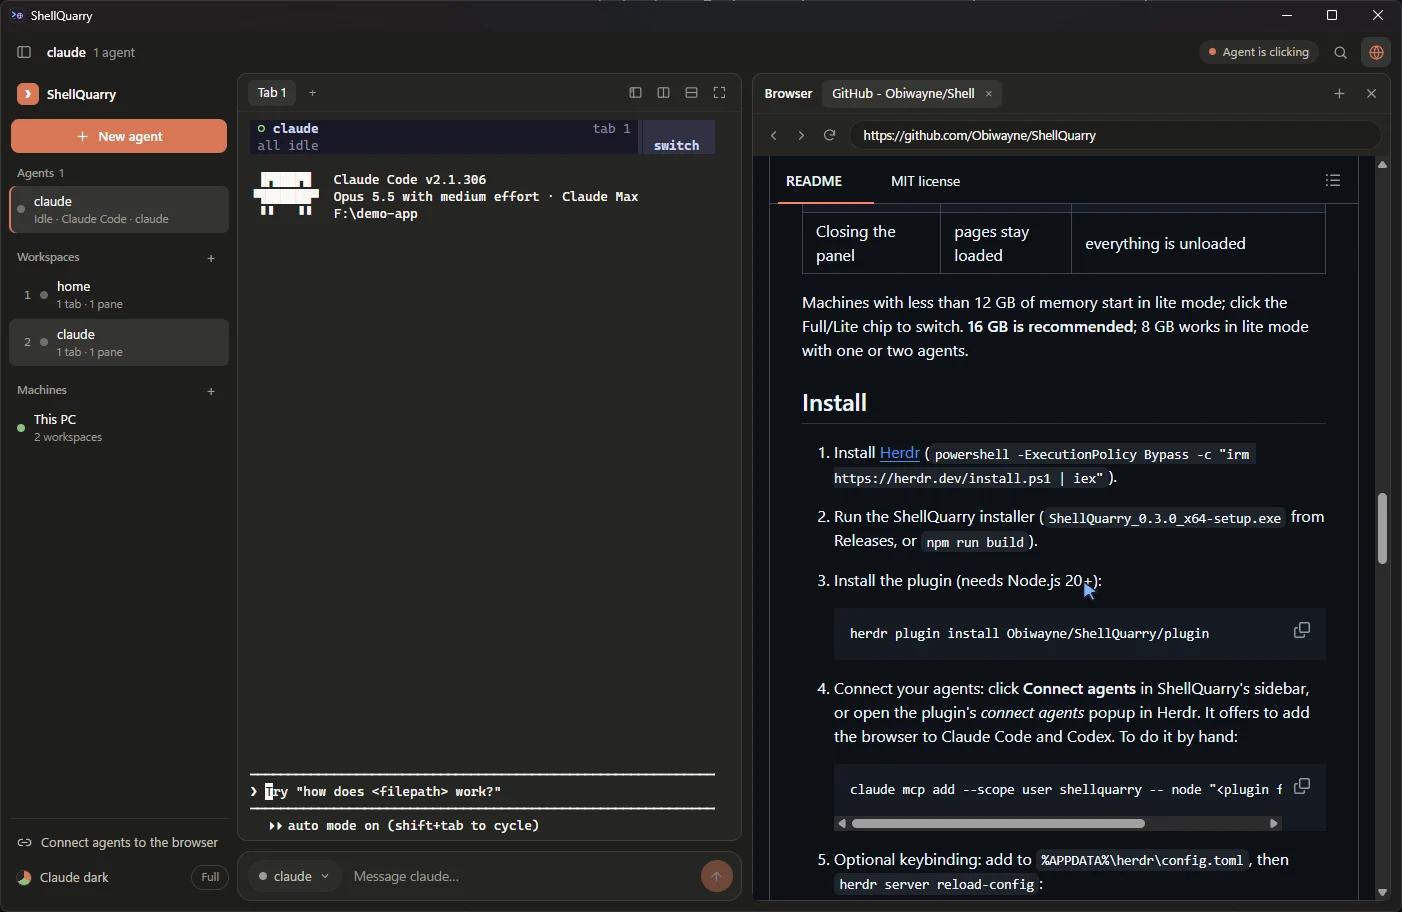
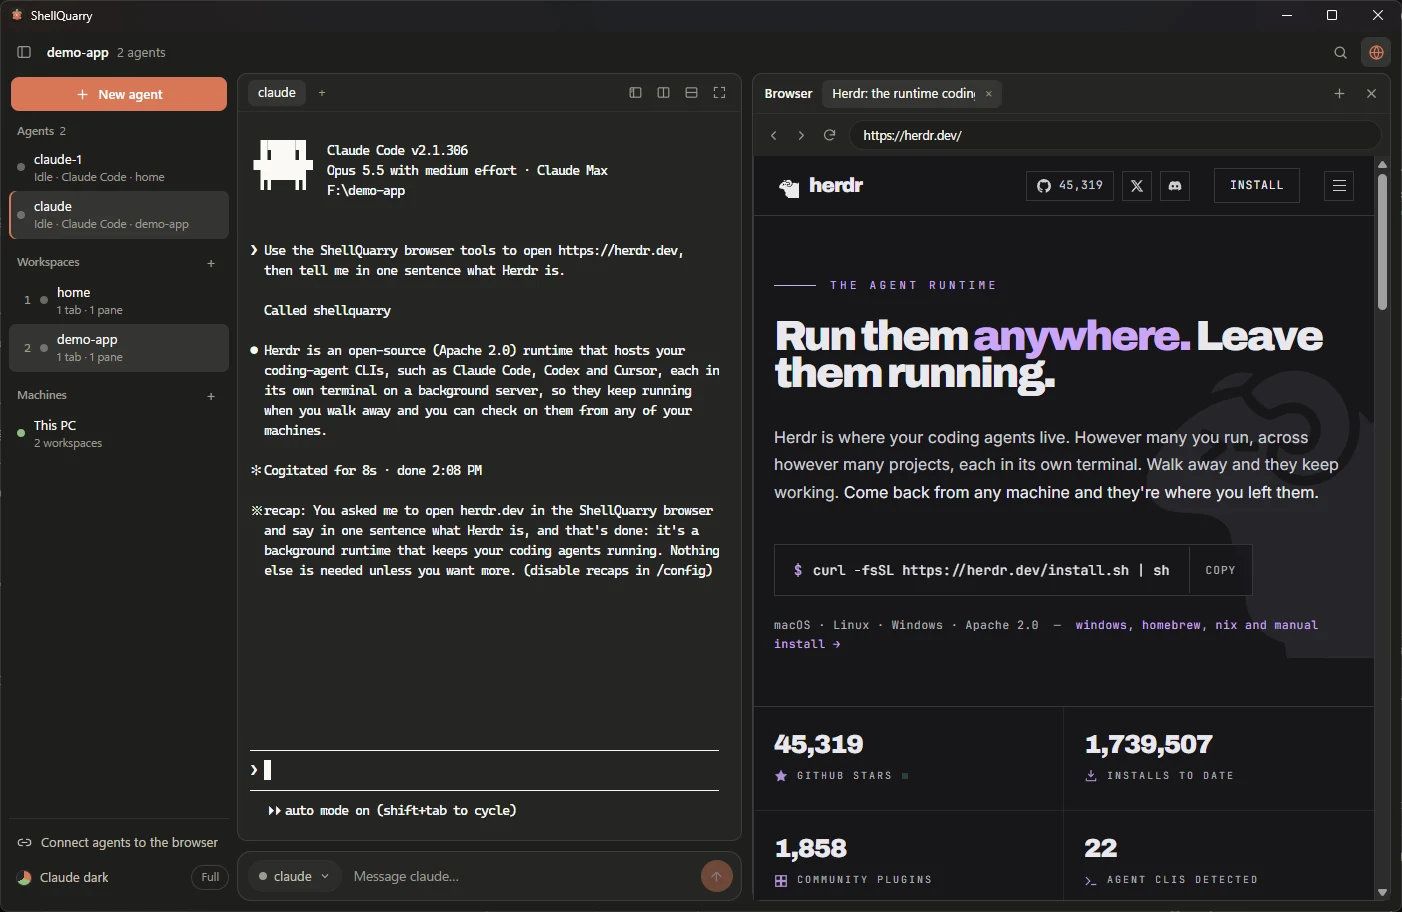
Add the Herdr + browser GIF and a new screenshot; refuse a missing project folder
New agent with a folder that doesn't exist now says so instead of Herdr quietly starting
in the home folder.

diff --git a/promo/src/Gif.tsx b/promo/src/Gif.tsx
@@ -12,7 +12,7 @@ export const GIF = { w: 1200, h: 760, fps: 30, frames: 330 };
 type Rect = { x: number; y: number; w: number; h: number };
 type Layout = { window: { w: number; h: number }; term: Rect; sidebar: Rect; toolbar: Rect; composer: Rect; titlebar: Rect; browser: Rect; click: [number, number]; start: [number, number] };
 
-const SCALE = 0.78; // window pixels → GIF pixels
+const SCALE = 0.72; // window pixels → GIF pixels
 const OX = (GIF.w - 1402 * SCALE) / 2;
 const OY = 92;
 

diff --git a/src-tauri/src/herdr.rs b/src-tauri/src/herdr.rs
@@ -219,6 +219,10 @@ pub fn new_agent(
     if !valid_agent_name(name) {
         return Err("Names start with a lowercase letter and use only a-z, 0-9, - and _ (up to 32).".into());
     }
+    // Herdr starts a missing folder's workspace in the home folder instead, so say so here.
+    if machine.is_none() && !std::path::Path::new(cwd).is_dir() {
+        return Err(format!("{cwd} doesn't exist. Pick a folder that does, or create it first."));
+    }
     let created = if worktree {
         let mut args = vec!["worktree", "create", "--cwd", cwd, "--label", name, "--focus"];
         if let Some(b) = branch.filter(|b| !b.trim().is_empty()) {

diff --git a/README.md b/README.md
@@ -11,9 +11,12 @@ It comes in two parts:
 - **A Herdr plugin**: "Open agent browser" from inside Herdr, Ctrl+click links into the agent browser, and a popup
   that connects Claude Code and Codex. Works whether you run Herdr inside ShellQuarry or in Windows Terminal.
 
-ShellQuarry is an independent project. It is not made by or affiliated with Herdr.
+ShellQuarry is a shell that sits on top of Herdr: Herdr still runs your agents, unchanged. ShellQuarry is an
+independent project, not made by or affiliated with Herdr.
 
-![ShellQuarry: Herdr agents in the sidebar, a Claude Code agent in the middle, and the browser on the right](docs/blog/hero.webp)
+![Herdr on its own, then ShellQuarry's sidebar, buttons and message box around it, then an agent clicking in the browser panel](docs/blog/shellquarry-herdr-browser.gif)
+
+![ShellQuarry: Herdr agents in the sidebar, a Claude Code agent in the middle that has just read herdr.dev, and the browser on the right](docs/blog/hero.webp)
 
 **[Download the latest release](https://github.com/Obiwayne/ShellQuarry/releases/latest)** ·
 [Step-by-step install](#install-step-by-step) · [How it works](docs/how-it-works.md)
@@ -232,6 +235,10 @@ node test/pick-palette.mjs "Claude dark"
 - The Herdr plugin needs Node.js, and agents need it to run the MCP server.
 - Agent screens are still drawn by each agent in the terminal; ShellQuarry adds controls around them rather than
   redrawing conversations as chat bubbles.
+- **Claude Code's plan usage** shows only for Claude Code agents started from ShellQuarry, and not when your Claude
+  settings have `"disableAllHooks": true` (that also turns off status lines, which is how Claude Code reports usage).
+- **Continue in another agent** reads Claude Code's and Codex's saved conversations; other agents hand over the end
+  of their terminal instead. Codex isn't connected to the browser automatically yet (use Connect agents).
 - Other machines are built on Herdr's documented `machine` and `--machine` commands but haven't been tested against a
   real remote machine yet.
 
